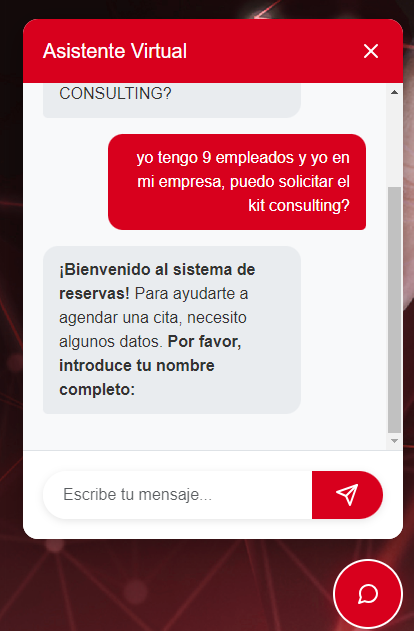
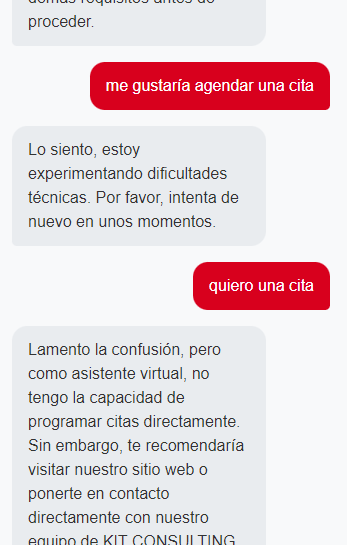
Agent query: Can you test these scenarios: 1. Ask 'tengo 9 empleados, puedo solicitar el kit consulting?' 2. Ask 'quiero reservar una cita' 3. Ask 'cuantos empleados necesito para aplicar?'

diff --git a/chatbot.py b/chatbot.py
@@ -32,7 +32,7 @@ if not openai.api_key:
     logger.error("OpenAI API key not found in environment variables")
     raise ValueError("OpenAI API key is required")
 
-# Booking states and services remain the same
+# Booking states
 BOOKING_STATES = {
     'INITIAL': 0,
     'COLLECTING_NAME': 1,
@@ -75,11 +75,11 @@ class BookingSession:
 def detect_appointment_intent(message):
     """
     Enhanced detection of appointment booking intent with stricter rules
-    and negative pattern matching
+    and negative pattern matching for eligibility questions
     """
     message_lower = message.lower()
     
-    # Negative patterns - exclude general inquiries
+    # Negative patterns - exclude eligibility and general inquiries
     negative_patterns = [
         r'(?:cuanto|cuánto)\s+(?:cuesta|vale|es)',
         r'(?:que|qué)\s+(?:es|son|incluye)',
@@ -87,13 +87,18 @@ def detect_appointment_intent(message):
         r'requisitos',
         r'empleados?\s+(?:necesito|requiere|pide)',
         r'información',
-        r'duda'
+        r'duda',
+        r'tengo\s+\d+\s+empleados',
+        r'(?:puedo|podemos|podría)\s+solicitar',
+        r'(?:cuántos|cuantos)\s+empleados',
+        r'(?:soy|somos)\s+elegibles?',
+        r'(?:cumplimos?|cumplo)\s+(?:con|los)\s+requisitos'
     ]
     
     # If message matches any negative pattern, it's likely a general question
     if any(re.search(pattern, message_lower) for pattern in negative_patterns):
         return False
-        
+    
     # Strong booking intent patterns
     booking_patterns = [
         r'(?:quiero|necesito|deseo)\s+(?:reservar|agendar|programar)',
@@ -114,13 +119,241 @@ def detect_appointment_intent(message):
     # Check for strong booking intent
     if any(keyword in message_lower for keyword in booking_keywords):
         return True
-        
+    
     if any(re.search(pattern, message_lower) for pattern in booking_patterns):
         return True
     
     return False
 
-# BookingSession class and other utility functions remain the same...
+def validate_input(input_type, value):
+    """Validate user input based on type"""
+    validations = {
+        'name': lambda x: bool(re.match("^[A-Za-zÀ-ÿ\s]{2,100}$", x)),
+        'email': lambda x: bool(re.match(r"[^@]+@[^@]+\.[^@]+", x)),
+        'phone': lambda x: not x or bool(re.match(r"^(?:\+34|0034|34)?[6789]\d{8}$", x)),
+        'service': lambda x: x.isdigit() and 0 <= int(x)-1 < len(SERVICES),
+        'date': lambda x: x.isdigit(),
+        'time': lambda x: x.isdigit(),
+        'confirmation': lambda x: x.lower() in ['si', 'sí', 'yes', 'no']
+    }
+    return validations.get(input_type, lambda x: True)(value)
+
+def get_available_slots():
+    """Get available appointment slots"""
+    try:
+        slots = []
+        current_date = datetime.now()
+        
+        # Get next 7 available weekdays
+        for i in range(14):  # Look ahead 14 days to find 7 available slots
+            check_date = current_date + timedelta(days=i)
+            if check_date.weekday() < 5:  # Monday = 0, Friday = 4
+                booked_times = set(
+                    apt.time for apt in Appointment.query.filter_by(
+                        date=check_date.date()
+                    ).all()
+                )
+                
+                # Available time slots
+                available_times = []
+                for hour in range(10, 15):
+                    for minute in [0, 30]:
+                        time_str = f"{hour:02d}:{minute:02d}"
+                        if time_str not in booked_times:
+                            available_times.append(time_str)
+                
+                if available_times:
+                    slots.append({
+                        'date': check_date.strftime("%Y-%m-%d"),
+                        'formatted_date': check_date.strftime('%-d de %B de %Y').lower(),
+                        'times': available_times
+                    })
+                    
+                if len(slots) >= 7:
+                    break
+                    
+        return slots
+    except Exception as e:
+        logger.error(f"Error getting available slots: {str(e)}")
+        return []
+
+def handle_booking_step(user_input, session):
+    """Handle each step of the booking process"""
+    try:
+        if session.state == 'INITIAL':
+            session.state = 'COLLECTING_NAME'
+            return (
+                "<strong>¡Bienvenido al sistema de reservas!</strong>\n\n"
+                "Para ayudarte a agendar una cita, necesito algunos datos.\n\n"
+                "<strong>Por favor, introduce tu nombre completo:</strong>" +
+                session.format_state_data()
+            )
+        
+        elif session.state == 'COLLECTING_NAME':
+            if not validate_input('name', user_input):
+                return "Por favor, ingresa un nombre válido usando solo letras." + session.format_state_data()
+            
+            session.data['name'] = user_input
+            session.state = 'COLLECTING_EMAIL'
+            return (
+                f"Gracias {user_input}.\n\n"
+                "<strong>Por favor, introduce tu correo electrónico para enviarte "
+                "la confirmación de la cita:</strong>" +
+                session.format_state_data()
+            )
+        
+        elif session.state == 'COLLECTING_EMAIL':
+            if not validate_input('email', user_input):
+                return "Por favor, ingresa un correo electrónico válido." + session.format_state_data()
+            
+            session.data['email'] = user_input
+            session.state = 'COLLECTING_PHONE'
+            return (
+                "<strong>¿Podrías proporcionarme un número de teléfono para contactarte "
+                "en caso necesario?</strong>\n"
+                "(Este campo es opcional, puedes escribir 'saltar' para continuar)" +
+                session.format_state_data()
+            )
+        
+        elif session.state == 'COLLECTING_PHONE':
+            if user_input.lower() == 'saltar':
+                user_input = ''
+            elif not validate_input('phone', user_input):
+                return "Por favor, ingresa un número de teléfono español válido o escribe 'saltar'." + session.format_state_data()
+            
+            session.data['phone'] = user_input
+            session.state = 'SELECTING_SERVICE'
+            
+            services_list = "\n".join([f"{i+1}. {service}" for i, service in enumerate(SERVICES)])
+            return (
+                "<strong>¿Qué servicio te interesa?</strong>\n\n" +
+                services_list + "\n\n"
+                "<strong>Por favor, selecciona el número del servicio deseado:</strong>" +
+                session.format_state_data()
+            )
+        
+        elif session.state == 'SELECTING_SERVICE':
+            if not validate_input('service', user_input):
+                return "Por favor, selecciona un número válido de la lista." + session.format_state_data()
+            
+            service_index = int(user_input) - 1
+            session.data['service'] = SERVICES[service_index]
+            session.state = 'SELECTING_DATE'
+            
+            slots = get_available_slots()
+            if not slots:
+                return "Lo siento, no hay fechas disponibles en los próximos días." + session.format_state_data()
+            
+            dates_list = "\n".join([f"{i+1}. {slot['formatted_date']}" for i, slot in enumerate(slots)])
+            return (
+                f"Has seleccionado: <strong>{session.data['service']}</strong>\n\n"
+                "<strong>Estas son las fechas disponibles:</strong>\n" +
+                dates_list + "\n\n"
+                "<strong>Por favor, selecciona el número de la fecha que prefieres:</strong>" +
+                session.format_state_data()
+            )
+        
+        elif session.state == 'SELECTING_DATE':
+            if not validate_input('date', user_input):
+                return "Por favor, selecciona un número válido de la lista." + session.format_state_data()
+            
+            slots = get_available_slots()
+            date_index = int(user_input) - 1
+            
+            if date_index < 0 or date_index >= len(slots):
+                return "Por favor, selecciona un número válido de la lista." + session.format_state_data()
+            
+            selected_date = slots[date_index]
+            session.data['date'] = selected_date['date']
+            session.data['formatted_date'] = selected_date['formatted_date']
+            session.state = 'SELECTING_TIME'
+            
+            times_list = "\n".join([f"{i+1}. {time}" for i, time in enumerate(selected_date['times'])])
+            return (
+                f"Has seleccionado el <strong>{selected_date['formatted_date']}</strong>.\n\n"
+                "<strong>Estos son los horarios disponibles:</strong>\n" +
+                times_list + "\n\n"
+                "<strong>Por favor, selecciona el número del horario que prefieres:</strong>" +
+                session.format_state_data()
+            )
+        
+        elif session.state == 'SELECTING_TIME':
+            if not validate_input('time', user_input):
+                return "Por favor, selecciona un número válido de la lista." + session.format_state_data()
+            
+            slots = get_available_slots()
+            selected_slot = next(
+                slot for slot in slots 
+                if slot['date'] == session.data['date']
+            )
+            
+            time_index = int(user_input) - 1
+            if time_index < 0 or time_index >= len(selected_slot['times']):
+                return "Por favor, selecciona un número válido de la lista." + session.format_state_data()
+            
+            session.data['time'] = selected_slot['times'][time_index]
+            session.state = 'CONFIRMATION'
+            
+            return (
+                "<strong>Resumen de tu cita:</strong>\n\n"
+                f"Nombre: {session.data['name']}\n"
+                f"Email: {session.data['email']}\n"
+                f"Teléfono: {session.data['phone'] or 'No proporcionado'}\n"
+                f"Servicio: {session.data['service']}\n"
+                f"Fecha: {session.data['formatted_date']}\n"
+                f"Hora: {session.data['time']}\n\n"
+                "<strong>¿Los datos son correctos?</strong> (Responde 'sí' para confirmar o 'no' para cancelar)" +
+                session.format_state_data()
+            )
+        
+        elif session.state == 'CONFIRMATION':
+            if not validate_input('confirmation', user_input):
+                return "Por favor, responde 'sí' para confirmar o 'no' para cancelar." + session.format_state_data()
+            
+            if user_input.lower() in ['si', 'sí', 'yes']:
+                try:
+                    appointment = Appointment(
+                        name=session.data['name'],
+                        email=session.data['email'],
+                        phone=session.data['phone'],
+                        date=datetime.strptime(session.data['date'], '%Y-%m-%d').date(),
+                        time=session.data['time'],
+                        service=session.data['service']
+                    )
+                    db.session.add(appointment)
+                    db.session.commit()
+                    
+                    send_appointment_confirmation(appointment)
+                    schedule_reminder_email(appointment)
+                    
+                    return (
+                        "<strong>¡Tu cita ha sido confirmada!</strong>\n\n"
+                        "Te hemos enviado un correo electrónico con los detalles.\n"
+                        "También recibirás un recordatorio 24 horas antes de la cita.\n\n"
+                        "¿Hay algo más en lo que pueda ayudarte?\n\nBOOKING_COMPLETE"
+                    )
+                except Exception as e:
+                    logger.error(f"Error creating appointment: {str(e)}")
+                    return (
+                        "<strong>Lo siento, ha ocurrido un error al procesar tu cita.</strong>\n"
+                        "Por favor, intenta de nuevo más tarde." +
+                        session.format_state_data()
+                    )
+            else:
+                return (
+                    "<strong>De acuerdo, he cancelado la reserva.</strong>\n\n"
+                    "¿Hay algo más en lo que pueda ayudarte?\n\nBOOKING_CANCELLED"
+                )
+        
+        return "Lo siento, ha ocurrido un error. Por favor, intenta de nuevo." + session.format_state_data()
+        
+    except Exception as e:
+        logger.error(f"Error in booking process: {str(e)}")
+        return (
+            "<strong>Lo siento, ha ocurrido un error inesperado.</strong>\n"
+            "Por favor, intenta de nuevo más tarde." +
+            session.format_state_data()
+        )
 
 def generate_response(user_message, conversation_history=None):
     """Generate chatbot response with improved intent detection and eligibility handling"""
@@ -151,8 +384,9 @@ def generate_response(user_message, conversation_history=None):
                 current_state = 'INITIAL'
                 booking_data = {}
 
-        # Handle booking flow
-        if current_state != 'INITIAL' or detect_appointment_intent(user_message):
+        # Only start booking flow if we have a clear booking intent
+        # and we're not already in a booking state
+        if current_state != 'INITIAL' or (detect_appointment_intent(user_message) and current_state == 'INITIAL'):
             session = BookingSession()
             session.state = current_state
             session.data = booking_data
@@ -174,17 +408,20 @@ def generate_response(user_message, conversation_history=None):
                     "- Segmento A (10-49 empleados): hasta 12.000€\n"
                     "- Segmento B (50-99 empleados): hasta 18.000€\n"
                     "- Segmento C (100-249 empleados): hasta 24.000€\n"
-                    "\n\nCUANDO RESPONDAS SOBRE ELEGIBILIDAD:\n"
-                    "1. Si preguntan por menos de 10 empleados:\n"
-                    "   - Indica que no son elegibles\n"
-                    "   - Sugiere buscar otras ayudas disponibles\n"
-                    "2. Si preguntan por servicios específicos:\n"
-                    "   - Explica el servicio detalladamente\n"
-                    "   - Menciona el importe máximo de ayuda\n"
-                    "3. Si cumplen los requisitos:\n"
-                    "   - Confirma su elegibilidad\n"
-                    "   - Indica el segmento y la ayuda correspondiente\n"
-                    "\n\nFormata las respuestas de manera clara y estructurada, usando viñetas o párrafos cortos."
+                    "\n\nRESPUESTAS PARA CASOS ESPECÍFICOS:\n"
+                    "1. Empresas con menos de 10 empleados:\n"
+                    "   - 'Lo siento, actualmente el programa KIT CONSULTING está diseñado para "
+                    "empresas con 10 o más empleados. Para empresas más pequeñas, te recomiendo "
+                    "explorar el Kit Digital, que ofrece ayudas específicas para empresas de menor tamaño.'\n\n"
+                    "2. Consultas sobre elegibilidad:\n"
+                    "   - Menciona TODOS los requisitos\n"
+                    "   - Especifica el segmento correspondiente\n"
+                    "   - Indica el importe máximo de ayuda\n\n"
+                    "3. Consultas sobre servicios:\n"
+                    "   - Detalla los servicios disponibles\n"
+                    "   - Menciona los importes máximos\n"
+                    "   - Explica el proceso de solicitud\n\n"
+                    "Mantén un tono profesional y asegúrate de proporcionar información completa y precisa."
                 )
             }
         ]
@@ -203,14 +440,16 @@ def generate_response(user_message, conversation_history=None):
         completion = openai.ChatCompletion.create(
             model="gpt-4",
             messages=messages,
-            max_tokens=500,
-            temperature=0.7
+            temperature=0.7,
+            max_tokens=500
         )
 
         response = completion.choices[0].message.content.strip()
 
-        # Only suggest booking if it's a positive eligibility case
-        if "elegible" in response.lower() and "no" not in response.lower():
+        # Only suggest booking for eligible companies
+        if ("elegible" in response.lower() and 
+            "no" not in response.lower() and 
+            not any(keyword in user_message.lower() for keyword in ["menos", "9", "8", "7", "6", "5", "4", "3", "2", "1"])):
             response += "\n\n¿Te gustaría agendar una consultoría personalizada para discutir tu caso específico?"
 
         return response
@@ -218,5 +457,3 @@ def generate_response(user_message, conversation_history=None):
     except Exception as e:
         logger.error(f"Error generating response: {str(e)}")
         return "Lo siento, estoy experimentando dificultades técnicas. Por favor, intenta de nuevo en unos momentos."
-
-# Rest of the code (handle_booking_step, etc.) remains the same...
